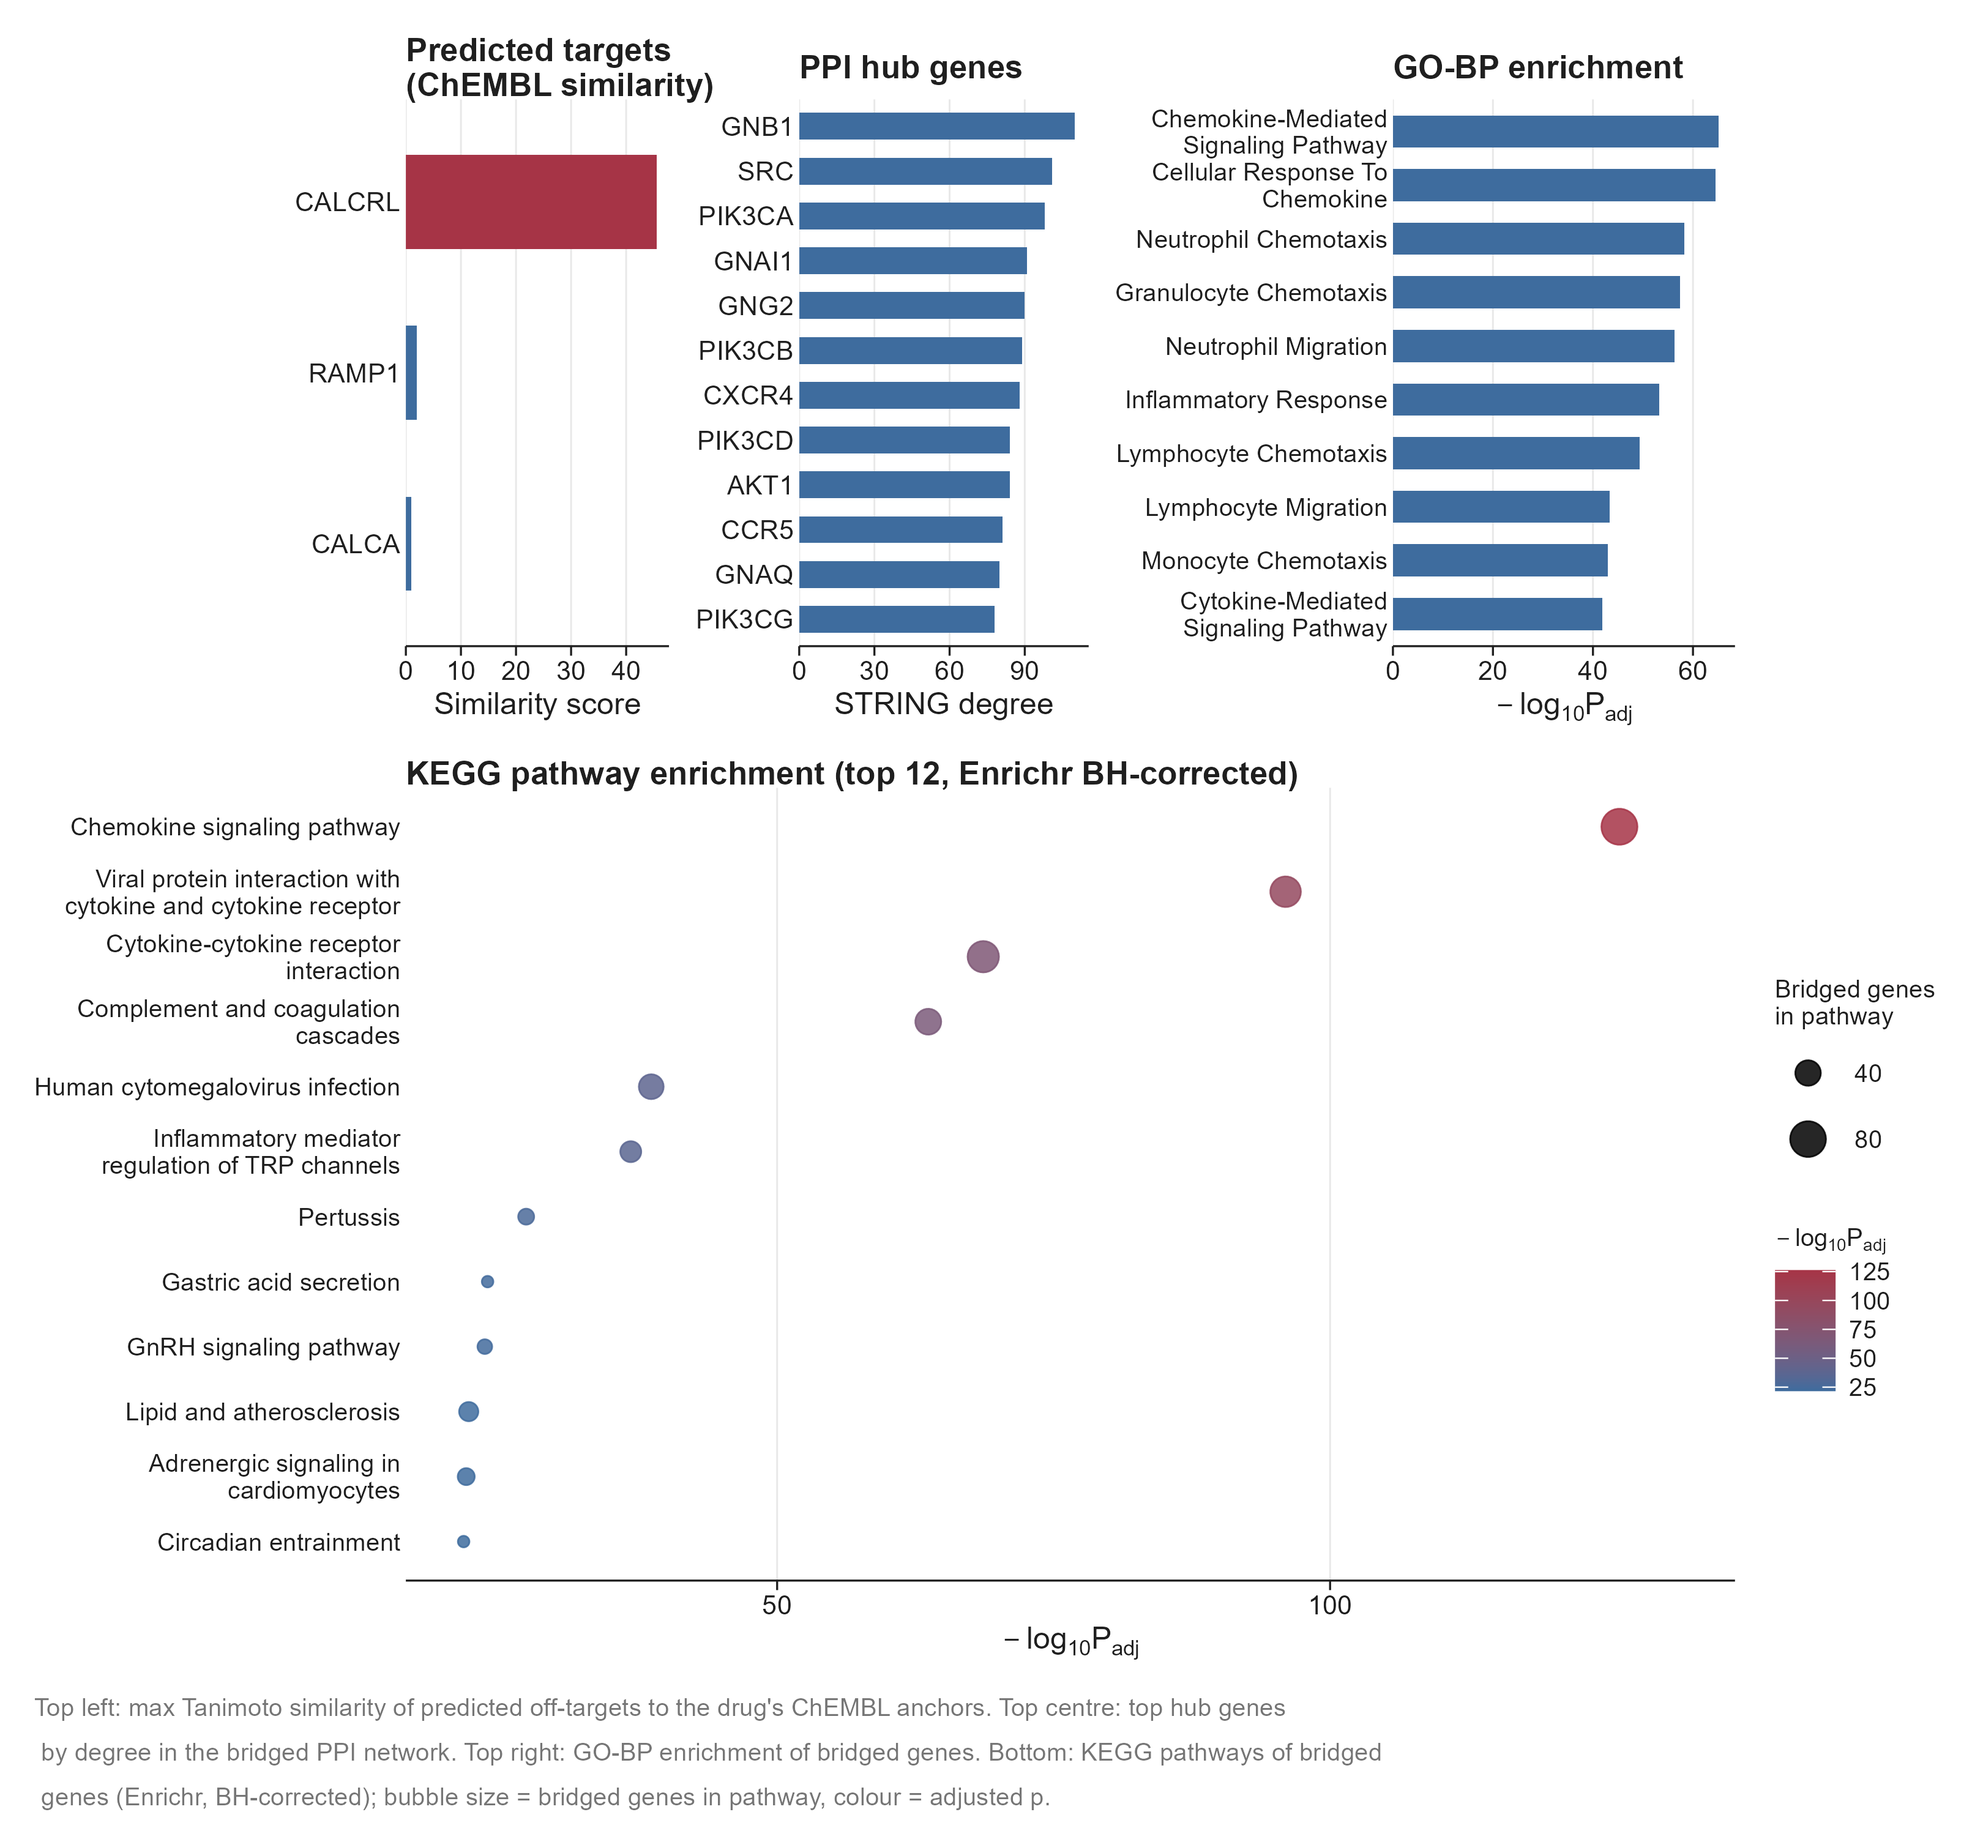
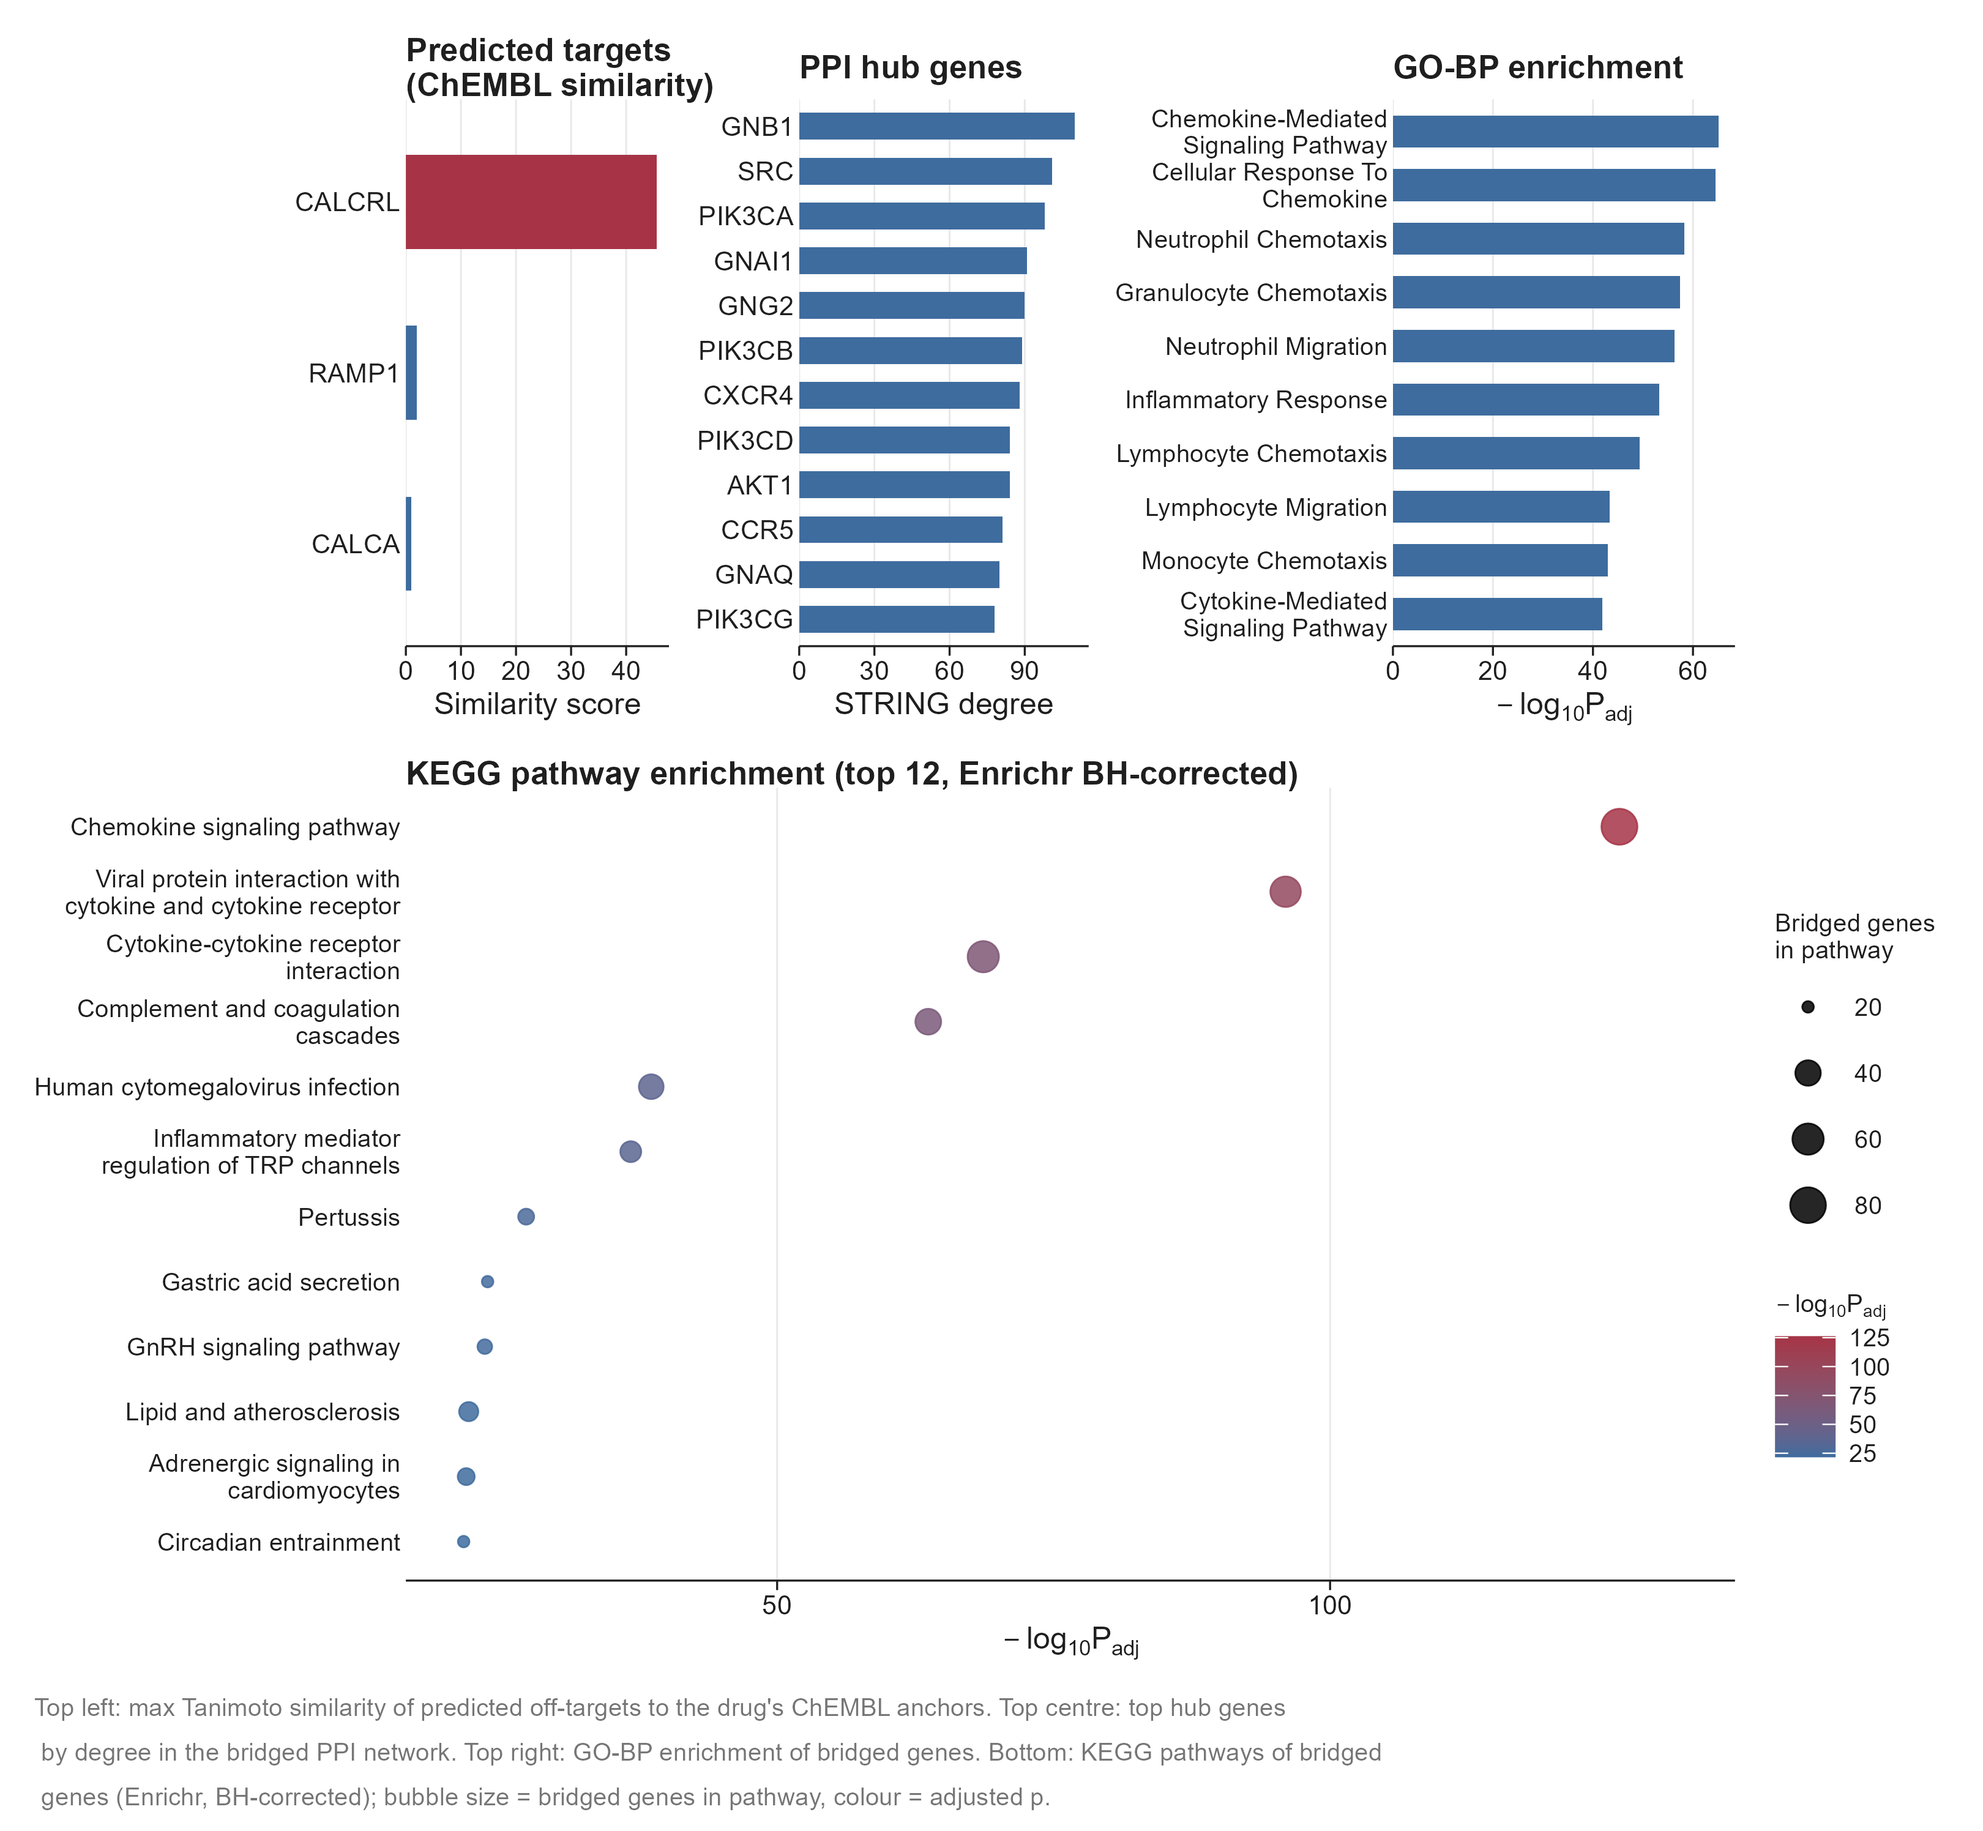
audit: sync SHAP table S3 to the 11-16 rerun (was stale 11-15 values); 0.030 -> 0.031 in text/legend/caption; KEGG size legend breaks 20/40/60/80; add cell-by-cell table audit script

Changed region(s): [[0.8728, 0.6217, 0.9664, 0.8082], [0.904, 0.4973, 0.9664, 0.5595]]

diff --git a/tools/audit_tables.py b/tools/audit_tables.py
@@ -1,0 +1,119 @@
+# -*- coding: utf-8 -*-
+"""Audit rendered submission tables against their source files, cell by cell.
+
+Checks, per table:
+  - row / column count vs source
+  - every cell equals the source cell after the same translate+format pipeline
+  - empty-cell count, duplicate-row count
+  - header row present and non-empty
+  - float formatting (no full-precision floats)
+Exits non-zero if any mismatch is found.
+"""
+import csv, sys, importlib.util
+from pathlib import Path
+from docx import Document
+
+ROOT = Path(r"C:/Users/wu-ke/WorkBuddy/2026-11-09-16-31-05/rimegepant_hypersensitivity")
+spec = importlib.util.spec_from_file_location("mk", ROOT / "tools" / "make_submission.py")
+mk = importlib.util.module_from_spec(spec); spec.loader.exec_module(mk)
+
+
+def docx_rows(path):
+    d = Document(path)
+    if not d.tables:
+        return None
+    t = d.tables[0]
+    rows = []
+    for r in t.rows:
+        rows.append([c.text.strip() for c in r.cells])
+    return rows
+
+
+def norm(s):
+    return " ".join(str(s).split())
+
+
+problems = []
+print("=" * 78)
+for n in sorted(mk.TITLES):
+    kind, path, sheet, cap = mk.SOURCES[n]
+    src = mk.xlsx_rows(path, sheet, cap) if kind == "xlsx" else mk.csv_rows(path, cap)
+    src = [r[:len(r)] for r in src]
+    # source -> translated/formatted, same pipeline as the renderer
+    src_t = mk.translate_rows(src)
+    # the renderer may trim columns via cap
+    docx_p = mk.TBL / f"Table_{n:02d}.docx"
+    got = docx_rows(docx_p)
+    if got is None:
+        problems.append(f"Table {n}: no table found in {docx_p.name}")
+        continue
+    ns, ng = len(src_t), len(got)
+    cs = max(len(r) for r in src_t) if src_t else 0
+    cg = max(len(r) for r in got) if got else 0
+    tag = f"Table {n:02d}"
+    if ns != ng:
+        problems.append(f"{tag}: row count src {ns} vs docx {ng}")
+    if cs != cg:
+        problems.append(f"{tag}: col count src {cs} vs docx {cg}")
+    bad = 0
+    first = None
+    for i in range(min(ns, ng)):
+        s_row = [norm(x) for x in src_t[i]]
+        g_row = [norm(x) for x in got[i]]
+        # pad shorter row
+        L = max(len(s_row), len(g_row))
+        s_row += [""] * (L - len(s_row)); g_row += [""] * (L - len(g_row))
+        for j in range(L):
+            if s_row[j] != g_row[j]:
+                bad += 1
+                if first is None:
+                    first = (i + 1, j + 1, s_row[j], g_row[j])
+    empty = sum(1 for r in got for c in r if c == "")
+    dups = len(got) - len({tuple(r) for r in got})
+    status = "OK " if (ns == ng and cs == cg and bad == 0) else "FAIL"
+    print(f"[{status}] {tag}: {ng}r x {cg}c | src {ns}r x {cs}c | "
+          f"cell-mismatch {bad} | empty {empty} | dup-rows {dups}")
+    if first:
+        print(f"        first mismatch r{first[0]} c{first[1]}: src={first[2]!r} docx={first[3]!r}")
+
+# supplementary tables
+print("-" * 78)
+for tag, (title, footnote, spec_) in mk.SUPP_TITLES.items():
+    kind, path, sheet, cap = spec_
+    src = mk.xlsx_rows(path, sheet, cap) if kind == "xlsx" else mk.csv_rows(path, cap)
+    src_t = mk.translate_rows(src)
+    fp = mk.SUP / f"Supplementary_Table_{tag}_{mk.SUPP_SUFFIX[tag]}.docx"
+    got = docx_rows(fp)
+    if got is None:
+        problems.append(f"Supp {tag}: no table in {fp.name}")
+        continue
+    ns, ng = len(src_t), len(got)
+    cs = max(len(r) for r in src_t)
+    cg = max(len(r) for r in got)
+    bad = 0; first = None
+    for i in range(min(ns, ng)):
+        s_row = [norm(x) for x in src_t[i]]
+        g_row = [norm(x) for x in got[i]]
+        L = max(len(s_row), len(g_row))
+        s_row += [""] * (L - len(s_row)); g_row += [""] * (L - len(g_row))
+        for j in range(L):
+            if s_row[j] != g_row[j]:
+                bad += 1
+                if first is None: first = (i + 1, j + 1, s_row[j], g_row[j])
+    empty = sum(1 for r in got for c in r if c == "")
+    dups = len(got) - len({tuple(r) for r in got})
+    status = "OK " if (ns == ng and cs == cg and bad == 0) else "FAIL"
+    print(f"[{status}] Supp {tag}: {ng}r x {cg}c | src {ns}r x {cs}c | "
+          f"cell-mismatch {bad} | empty {empty} | dup-rows {dups}")
+    if first:
+        print(f"        first mismatch r{first[0]} c{first[1]}: src={first[2]!r} docx={first[3]!r}")
+    if ns != ng or cs != cg or bad:
+        problems.append(f"Supp {tag}: r{ns}->{ng} c{cs}->{cg} mismatch {bad}")
+
+print("=" * 78)
+if problems:
+    print("PROBLEMS:")
+    for p in problems:
+        print("  -", p)
+    sys.exit(1)
+print("ALL TABLES MATCH SOURCE")

diff --git a/tools/make_submission.py b/tools/make_submission.py
@@ -475,7 +475,7 @@ def build_main_manuscript():
 LEGENDS = [
     ("Figure 1.", "Forest plot of the 25 highest-ROR preferred terms within the oral/hypersensitivity focus cluster (49 PTs; FAERS/AEMS 2020Q2\u20132026Q2, primary-suspect role). Points represent ROR; horizontal bars represent 95% CIs (truncated with an arrowhead where they extend beyond the axis); the vertical dashed line marks ROR = 1. Red points are robust positive signals (all four algorithms concordant); dark blue points did not meet the signal criterion. The right-hand columns give the number of primary-suspect rimegepant cases and the number of reports in the rest of the database. All 19 positive signals are shown."),
     ("Figure 2.", "Quarterly reporting proportions of the six hypersensitivity-spectrum families, 2020Q2\u20132026Q2, shown as small multiples on a shared 0\u201340% scale with 95% Wilson intervals (shaded ribbons). The shaded band marks the post-label-revision period (2025Q3 onwards, following the August 2025 label revision). The bottom panel shows the quarterly report denominators underlying all proportions."),
-    ("Figure 3.", "SHAP analysis of the best-performing model (random forest; AUC 0.621 ± 0.015). Left: mean absolute SHAP value per feature (top 15 of the 21 plotted features; the male-sex mirror of female sex and the centred duplicate of report year are omitted; the full 23-feature list is given in Supplementary Table S3). Right: SHAP contributions of individual cases; the horizontal axis is the SHAP value in log-odds of the composite endpoint; colour encodes the feature value (red high, blue low; pale grey marks missing values). No feature dominates, and the largest mean absolute SHAP value is 0.030. Composite-endpoint positivity was 12.9% in the highest and 6.2% in the lowest quartile of the female-sex SHAP contribution."),
+    ("Figure 3.", "SHAP analysis of the best-performing model (random forest; AUC 0.621 ± 0.015). Left: mean absolute SHAP value per feature (top 15 of the 21 plotted features; the male-sex mirror of female sex and the centred duplicate of report year are omitted; the full 23-feature list is given in Supplementary Table S3). Right: SHAP contributions of individual cases; the horizontal axis is the SHAP value in log-odds of the composite endpoint; colour encodes the feature value (red high, blue low; pale grey marks missing values). No feature dominates, and the largest mean absolute SHAP value is 0.031. Composite-endpoint positivity was 12.9% in the highest and 6.2% in the lowest quartile of the female-sex SHAP contribution."),
     ("Figure 4.", "Bridged network-toxicology overview. Top left: predicted targets (max Tanimoto similarity to the drug's ChEMBL anchors; CALCRL highlighted). Top centre: PPI hub genes by STRING degree. Top right: top-10 GO biological-process enrichment of the bridged network. Bottom: KEGG pathway enrichment of the bridged genes (top 12, Enrichr with Benjamini–Hochberg correction; bubble size = bridged genes in pathway, colour = adjusted p; the full top-20 list is given in Supplementary Table S4). Drug anchors CALCRL/RAMP1/CALCA and bridge genes GNG2/GNB1/GNAS, C3/C5 and PLCG1/SRC/MAPK1 connect the drug layer to the chemokine and leukocyte-chemotaxis modules."),
 ]
 
